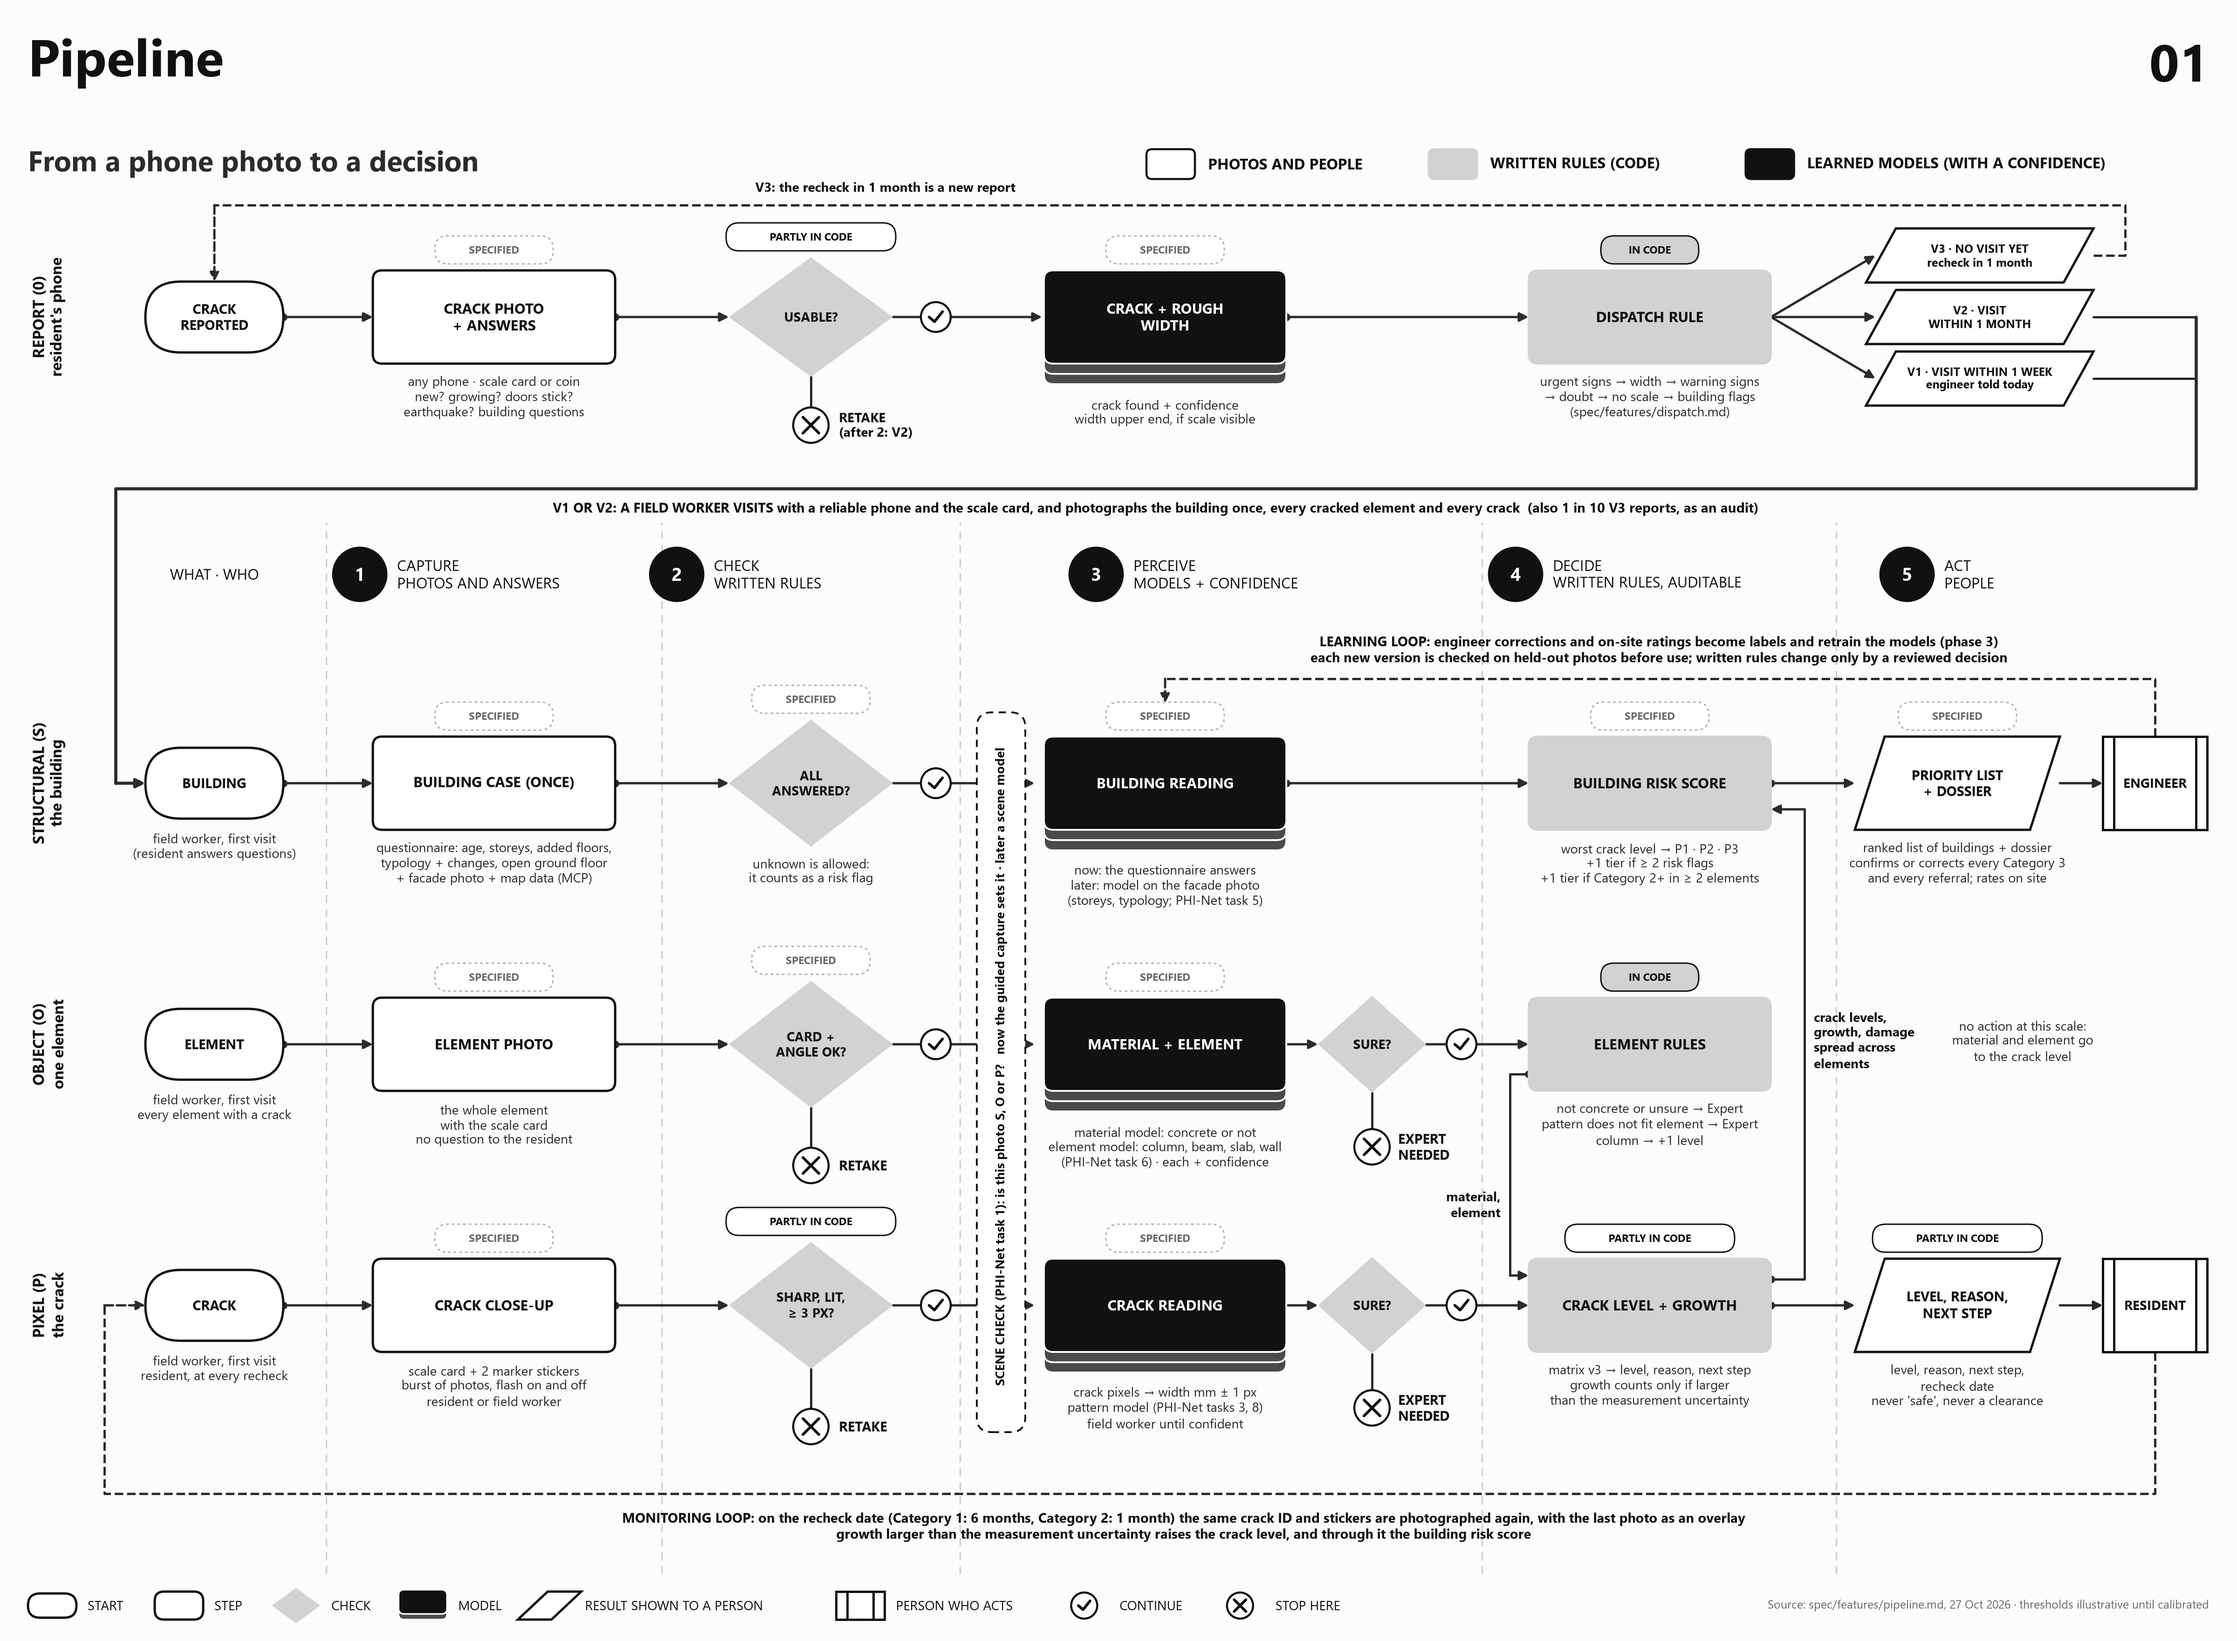
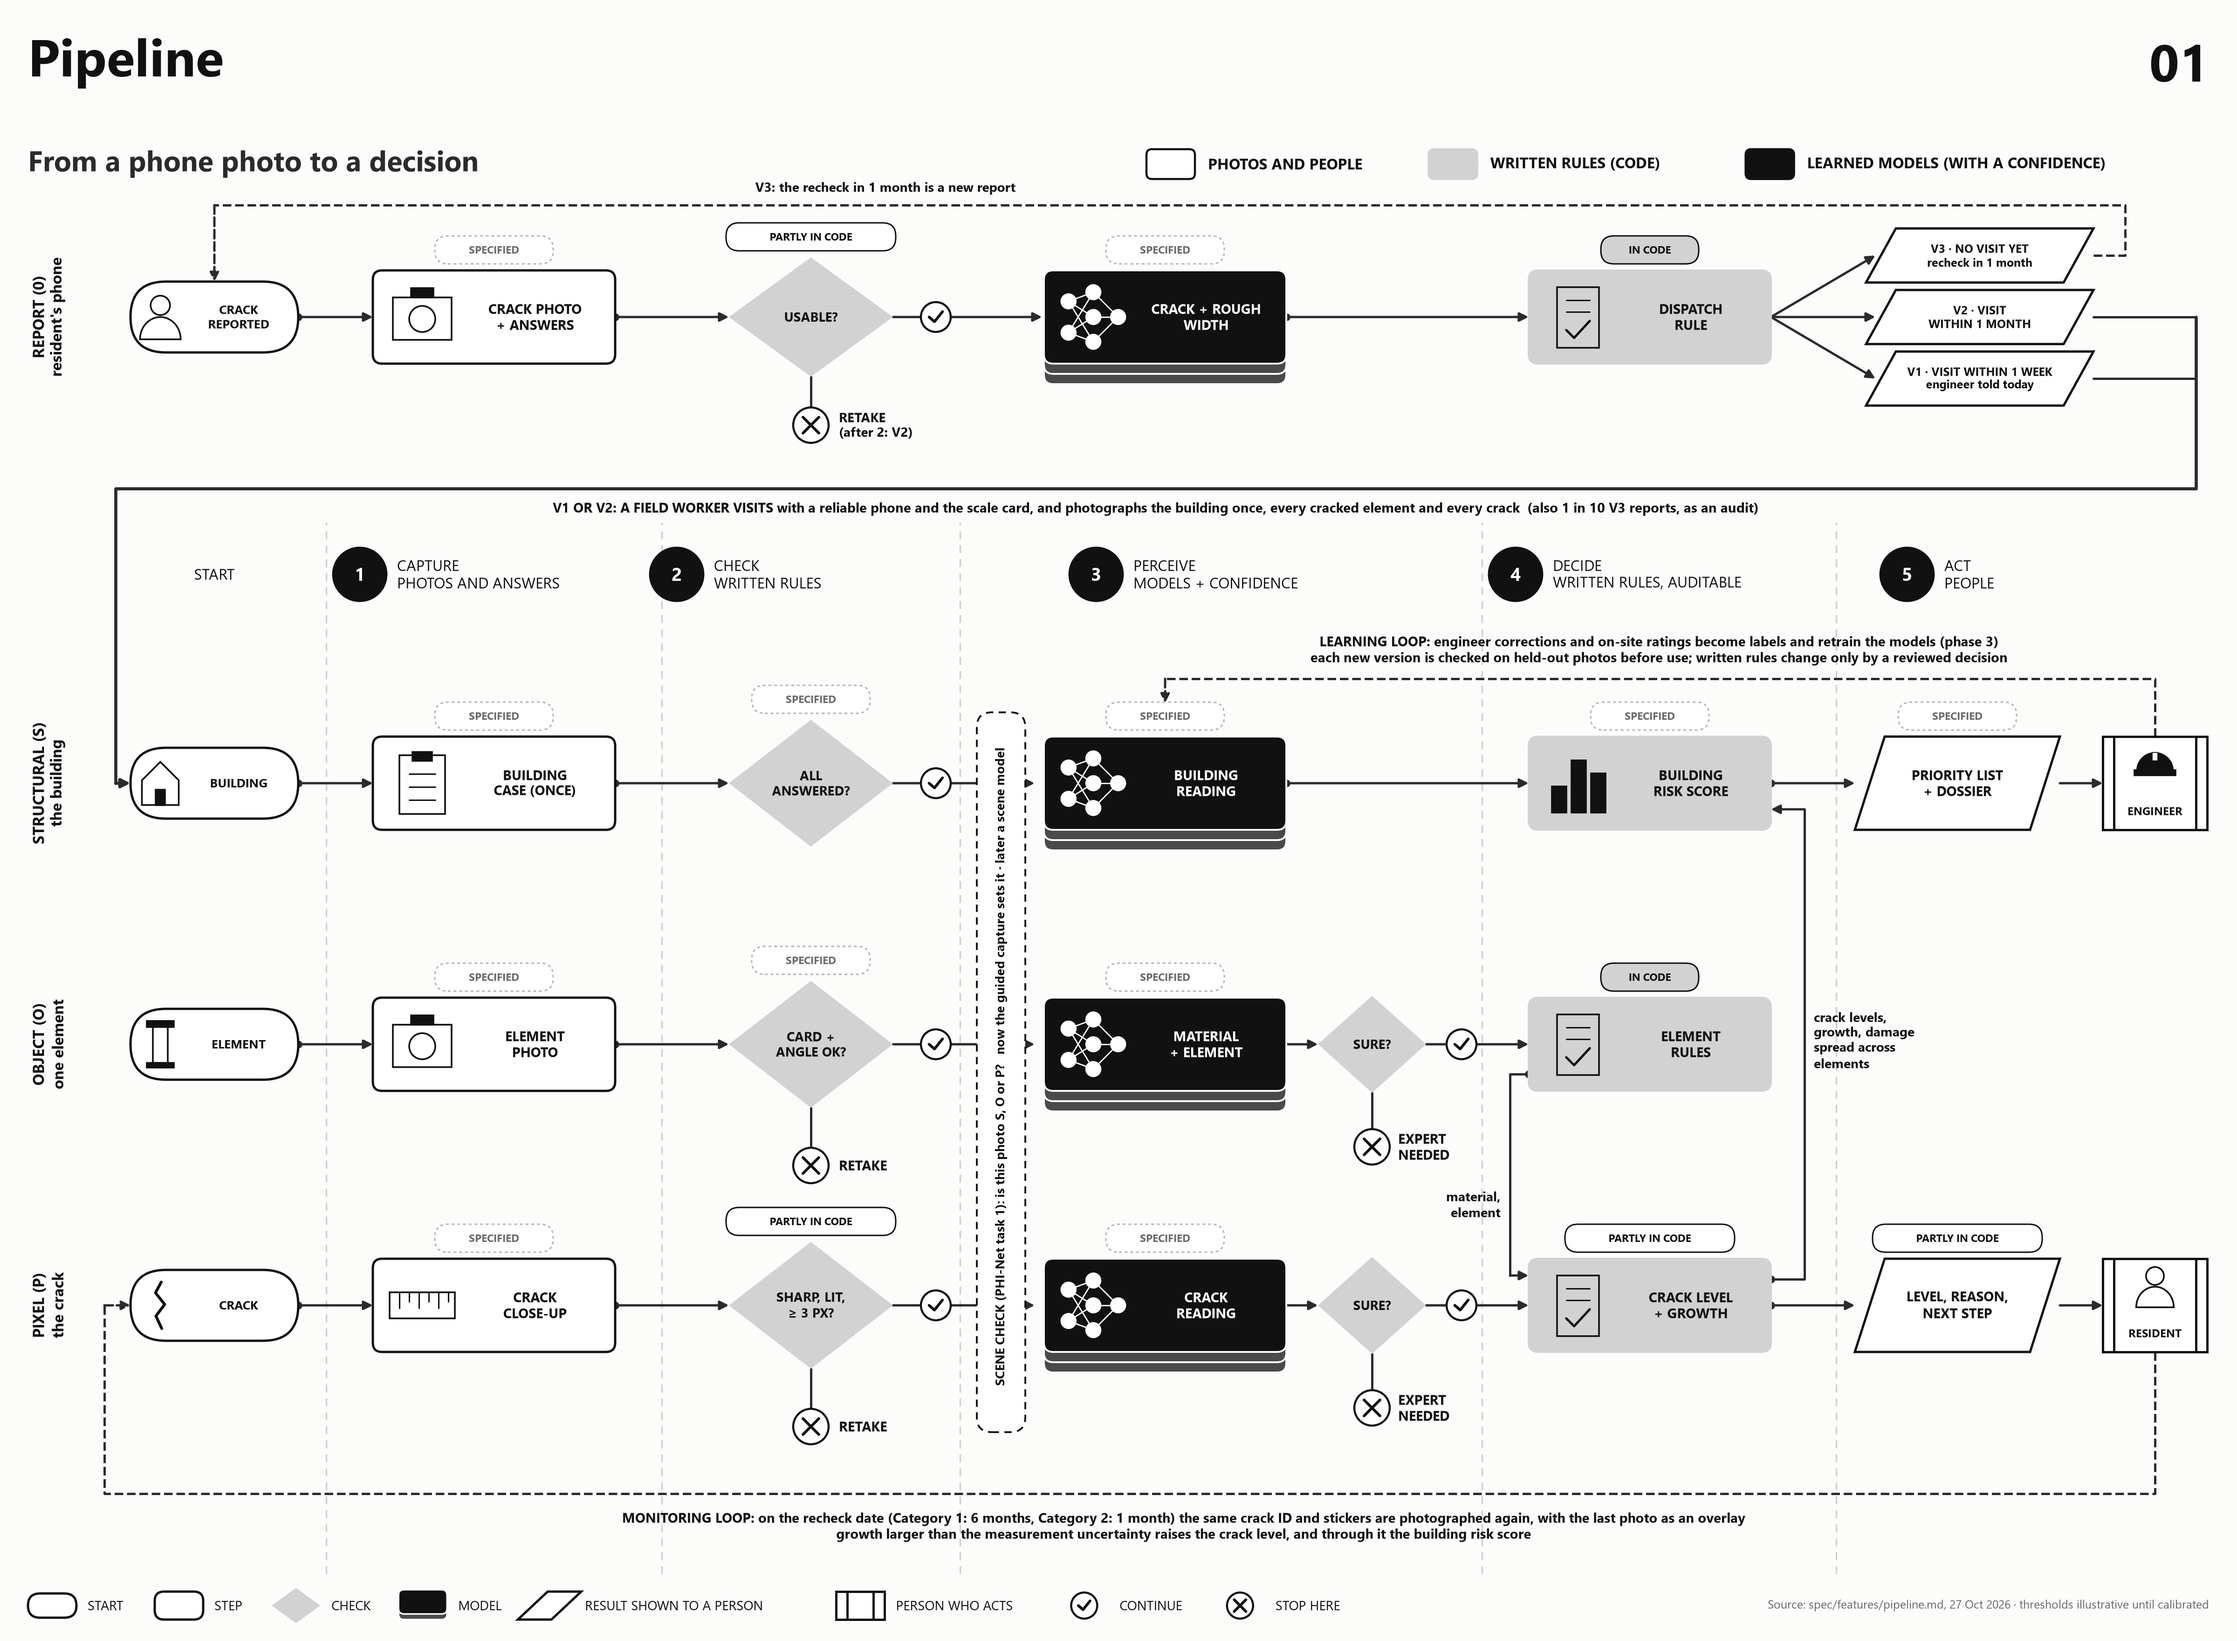
Pipeline flow: symbols in every box and start pill instead of the small text under them

diff --git a/src/viz/figures.py b/src/viz/figures.py
@@ -308,6 +308,12 @@ def _handoff_icon(ax, key, cx, cy, s=2.8, ink="#111111", paper="white"):
         for layer in nodes:
             for x, y in layer:
                 circ(x, y, 1.1, fc=K)
+    elif key == "column":  # a structural element
+        rect(2.2, 8.6, 5.6, 1.2, fc=K)
+        rect(3.5, 1.2, 3.0, 7.4)
+        rect(2.2, 0.2, 5.6, 1.0, fc=K)
+    elif key == "crack":
+        ln([(5.2, 9.8), (4.0, 7.6), (5.9, 5.2), (4.1, 2.8), (5.3, 0.2)], lw=2.2)
     elif key == "person":  # the resident
         circ(5, 7.4, 2.0)
         shoulders(5.0, 4.2)
@@ -1100,7 +1106,7 @@ FLOW_LANES = [  # (lane y, code, name, what, start pill, who takes the photo; sp
     (32, "O", "OBJECT", "one element", "ELEMENT", "field worker, first visit\nevery element with a crack"),
     (18, "P", "PIXEL", "the crack", "CRACK", "field worker, first visit\nresident, at every recheck"),
 ]
-FLOW_COLUMNS = [(11.5, None, "WHAT · WHO"), (26.5, "1", "CAPTURE\nPHOTOS AND ANSWERS"), (43.5, "2", "CHECK\nWRITTEN RULES"),
+FLOW_COLUMNS = [(11.5, None, "START"), (26.5, "1", "CAPTURE\nPHOTOS AND ANSWERS"), (43.5, "2", "CHECK\nWRITTEN RULES"),
                 (66, "3", "PERCEIVE\nMODELS + CONFIDENCE"), (88.5, "4", "DECIDE\nWRITTEN RULES, AUDITABLE"),
                 (109.5, "5", "ACT\nPEOPLE")]
 FLOW_SEPARATORS = [17.5, 35.5, 51.5, 79.5, 98.5]
@@ -1207,6 +1213,32 @@ def pipeline_flow():
     t = _flow_tools(ax)
     label, photo_box, rule_box, model_box, diamond, para, pill, terminal, mark, line, status, detail = (t.label, t.photo_box, t.rule_box, t.model_box, t.diamond, t.para, t.pill, t.terminal, t.mark, t.line, t.status, t.detail)
 
+    def wrap(title):
+        if "\n" in title or len(title) <= 12:
+            return title
+        if " + " in title:
+            return title.replace(" + ", "\n+ ", 1)
+        mid, spaces = len(title) / 2, [i for i, ch in enumerate(title) if ch == " "]
+        cut = min(spaces, key=lambda i: abs(i - mid))
+        return title[:cut] + "\n" + title[cut + 1:]
+
+    def with_icon(draw, cx, cy, w, h, title, icon, ink=FLOW_INK, paper="white"):
+        """A box with its symbol on the left and its title on the right."""
+        draw(cx, cy, w, h, "")
+        size = min(h * 0.7, 3.6)
+        _handoff_icon(ax, icon, cx - w / 2 + 0.9 + size / 2, cy, s=size, ink=ink, paper=paper)
+        label(cx + (size + 0.9) / 2, cy, wrap(title), colour=ink, weight="bold", size=10.5)
+
+    def ipill(cx, cy, title, icon):
+        pill(cx, cy, 9.0, 3.8, "")
+        _handoff_icon(ax, icon, cx - 2.9, cy, s=2.6)
+        label(cx + 1.3, cy, title, size=9.5, weight="bold")
+
+    def iterminal(cx, cy, title, icon):
+        terminal(cx, cy, 5.6, 5, "")
+        _handoff_icon(ax, icon, cx, cy + 1.0, s=2.4)
+        label(cx, cy - 1.5, title, size=8.5, weight="bold")
+
     # title, section heading, colour key, columns
     label(1.5, 84.6, "Pipeline", size=40, weight="bold", ha="left")
     label(118.5, 84.6, "01", size=40, weight="bold", ha="right")
@@ -1231,11 +1263,10 @@ def pipeline_flow():
     # step 0: report and dispatch, a written rule decides when a field worker visits (spec/features/dispatch.md, D27)
     ry = 71.0
     label(2.6, ry, "REPORT (0)\nresident's phone", size=12, weight="bold", rotation=90)
-    pill(11.5, ry, 7.4, 3.8, "CRACK\nREPORTED")
-    photo_box(26.5, ry, 13, 5, "CRACK PHOTO\n+ ANSWERS")
+    ipill(11.5, ry, "CRACK\nREPORTED", "person")
+    with_icon(photo_box, 26.5, ry, 13, 5, "CRACK PHOTO\n+ ANSWERS", "camera")
     status(26.5, ry + 2.5, "spec")
-    detail(26.5, ry - 3.1, "any phone · scale card or coin\nnew? growing? doors stick?\nearthquake? building questions")
-    line([(15.2, ry), (20.0, ry)])
+    line([(16.0, ry), (20.0, ry)])
     diamond(43.5, ry, 4.4, 3.2, "USABLE?")
     status(43.5, ry + 3.2, "partly")
     line([(33.0, ry), (39.1, ry)])
@@ -1244,14 +1275,11 @@ def pipeline_flow():
     label(45.0, ry - 5.8, "RETAKE\n(after 2: V2)", size=10, weight="bold", ha="left")
     line([(47.9, ry), (55.9, ry)], dot=False)
     mark(50.2, ry, True, r=0.8)
-    model_box(62.5, ry, 13, 5, "CRACK + ROUGH\nWIDTH")
+    with_icon(model_box, 62.5, ry, 13, 5, "CRACK + ROUGH\nWIDTH", "network", ink="white", paper=FLOW_MODEL)
     status(62.5, ry + 2.5, "spec")
-    detail(62.5, ry - 4.3, "crack found + confidence\nwidth upper end, if scale visible")
     line([(69.0, ry), (82.0, ry)])
-    rule_box(88.5, ry, 13, 5, "DISPATCH RULE")
+    with_icon(rule_box, 88.5, ry, 13, 5, "DISPATCH RULE", "rulebook", paper=FLOW_RULE)
     status(88.5, ry + 2.5, "code")
-    detail(88.5, ry - 3.1, "urgent signs → width → warning signs\n→ doubt → no scale → building flags\n"
-           "(spec/features/dispatch.md)")
     outcomes = [(74.3, "V3 · NO VISIT YET\nrecheck in 1 month"), (71.0, "V2 · VISIT\nWITHIN 1 MONTH"),
                 (67.7, "V1 · VISIT WITHIN 1 WEEK\nengineer told today")]
     for oy, text_ in outcomes:
@@ -1263,19 +1291,17 @@ def pipeline_flow():
     # V1 and V2: the field worker's first visit starts the three scales below
     for oy in (71.0, 67.7):
         line([(112.3, oy), (117.8, oy)], head=False, dot=False)
-    line([(117.8, 71.0), (117.8, 61.8), (6.2, 61.8), (6.2, 46.0), (7.8, 46.0)], lw=2.4, dot=False)
+    line([(117.8, 71.0), (117.8, 61.8), (6.2, 61.8), (6.2, 46.0), (7.0, 46.0)], lw=2.4, dot=False)
     label(62.0, 60.7, "V1 OR V2: A FIELD WORKER VISITS with a reliable phone and the scale card, and photographs "
           "the building once, every cracked element and every crack  (also 1 in 10 V3 reports, as an audit)",
           size=10.5, weight="bold")
     for r, (y, code, name, what, start, who) in enumerate(FLOW_LANES):
         label(2.6, y, f"{name} ({code})\n{what}", size=12, weight="bold", rotation=90)
-        pill(11.5, y, 7.4, 3.8, start)
-        detail(11.5, y - 2.6, who)
+        ipill(11.5, y, start, {"S": "house", "O": "column", "P": "crack"}[code])
         cap = PIPE_BOXES[(r, 0)]
-        photo_box(26.5, y, 13, 5, cap[1].upper())
+        with_icon(photo_box, 26.5, y, 13, 5, cap[1].upper(), {"S": "clipboard", "O": "camera", "P": "ruler"}[code])
         status(26.5, y + 2.5, cap[3])
-        detail(26.5, y - 3.1, cap[2])
-        line([(15.2, y), (20.0, y)])
+        line([(16.0, y), (20.0, y)])
         # check diamond and its failure branch
         question, fail = FLOW_CHECKS[code]
         diamond(43.5, y, 4.4, 3.4, question)
@@ -1285,15 +1311,12 @@ def pipeline_flow():
             line([(43.5, y - 3.4), (43.5, y - 5.6)], head=False, dot=False)
             mark(43.5, y - 6.5, False)
             label(45.0, y - 6.5, fail, size=10.5, weight="bold", ha="left")
-        else:
-            detail(43.5, y - 3.9, "unknown is allowed:\nit counts as a risk flag")
         line([(47.9, y), (55.5, y)], dot=False)
         mark(50.2, y, True, r=0.8)
         # perceive: learned model, then 'sure?' for the models that exist this semester
         per = PIPE_BOXES[(r, 2)]
-        model_box(62.5, y, 13, 5, per[1].upper())
+        with_icon(model_box, 62.5, y, 13, 5, per[1].upper(), "network", ink="white", paper=FLOW_MODEL)
         status(62.5, y + 2.5, per[3])
-        detail(62.5, y - 4.3, per[2])
         dec = PIPE_BOXES[(r, 3)]
         if code == "S":
             line([(69.0, y), (82.0, y)])
@@ -1305,20 +1328,16 @@ def pipeline_flow():
             label(75.0, y - 5.5, "EXPERT\nNEEDED", size=10.5, weight="bold", ha="left")
             line([(76.5, y), (82.0, y)], dot=False)
             mark(78.4, y, True, r=0.8)
-        rule_box(88.5, y, 13, 5, dec[1].upper())
+        with_icon(rule_box, 88.5, y, 13, 5, dec[1].upper(), "bars" if code == "S" else "rulebook", paper=FLOW_RULE)
         status(88.5, y + 2.5, dec[3])
-        detail(88.5, y - 3.1, dec[2])
         if (r, 4) in PIPE_BOXES:
             act = PIPE_BOXES[(r, 4)]
             out = "PRIORITY LIST\n+ DOSSIER" if code == "S" else "LEVEL, REASON,\nNEXT STEP"
             para(105.0, y, 9.4, 5, out)
             status(105.0, y + 2.5, act[3])
-            detail(105.0, y - 3.1, act[2])
-            terminal(115.6, y, 5.6, 5, act[1].upper())
+            iterminal(115.6, y, act[1].upper(), "hardhat" if code == "S" else "person")
             line([(95.0, y), (99.5, y)])
             line([(110.5, y), (112.8, y)], dot=False)
-        else:
-            detail(108.5, y + 1.4, "no action at this scale:\nmaterial and element go\nto the crack level")
 
     yS, yO, yP = (lane[0] for lane in FLOW_LANES)
     # scene check band between Check and Perceive, all scales
@@ -1339,7 +1358,7 @@ def pipeline_flow():
           "a reviewed decision", size=10.5, weight="bold")
     # monitoring loop: the resident's recheck date brings the same crack back
     my = 7.9
-    line([(115.6, yP - 2.5), (115.6, my), (5.6, my), (5.6, yP), (7.8, yP)], ls="--", dot=False)
+    line([(115.6, yP - 2.5), (115.6, my), (5.6, my), (5.6, yP), (7.0, yP)], ls="--", dot=False)
     label(63.5, my - 1.8, "MONITORING LOOP: on the recheck date (Category 1: 6 months, Category 2: 1 month) the same crack ID "
           "and stickers are photographed again, with the last photo as an overlay\ngrowth larger than the measurement "
           "uncertainty raises the crack level, and through it the building risk score", size=10.5, weight="bold")
